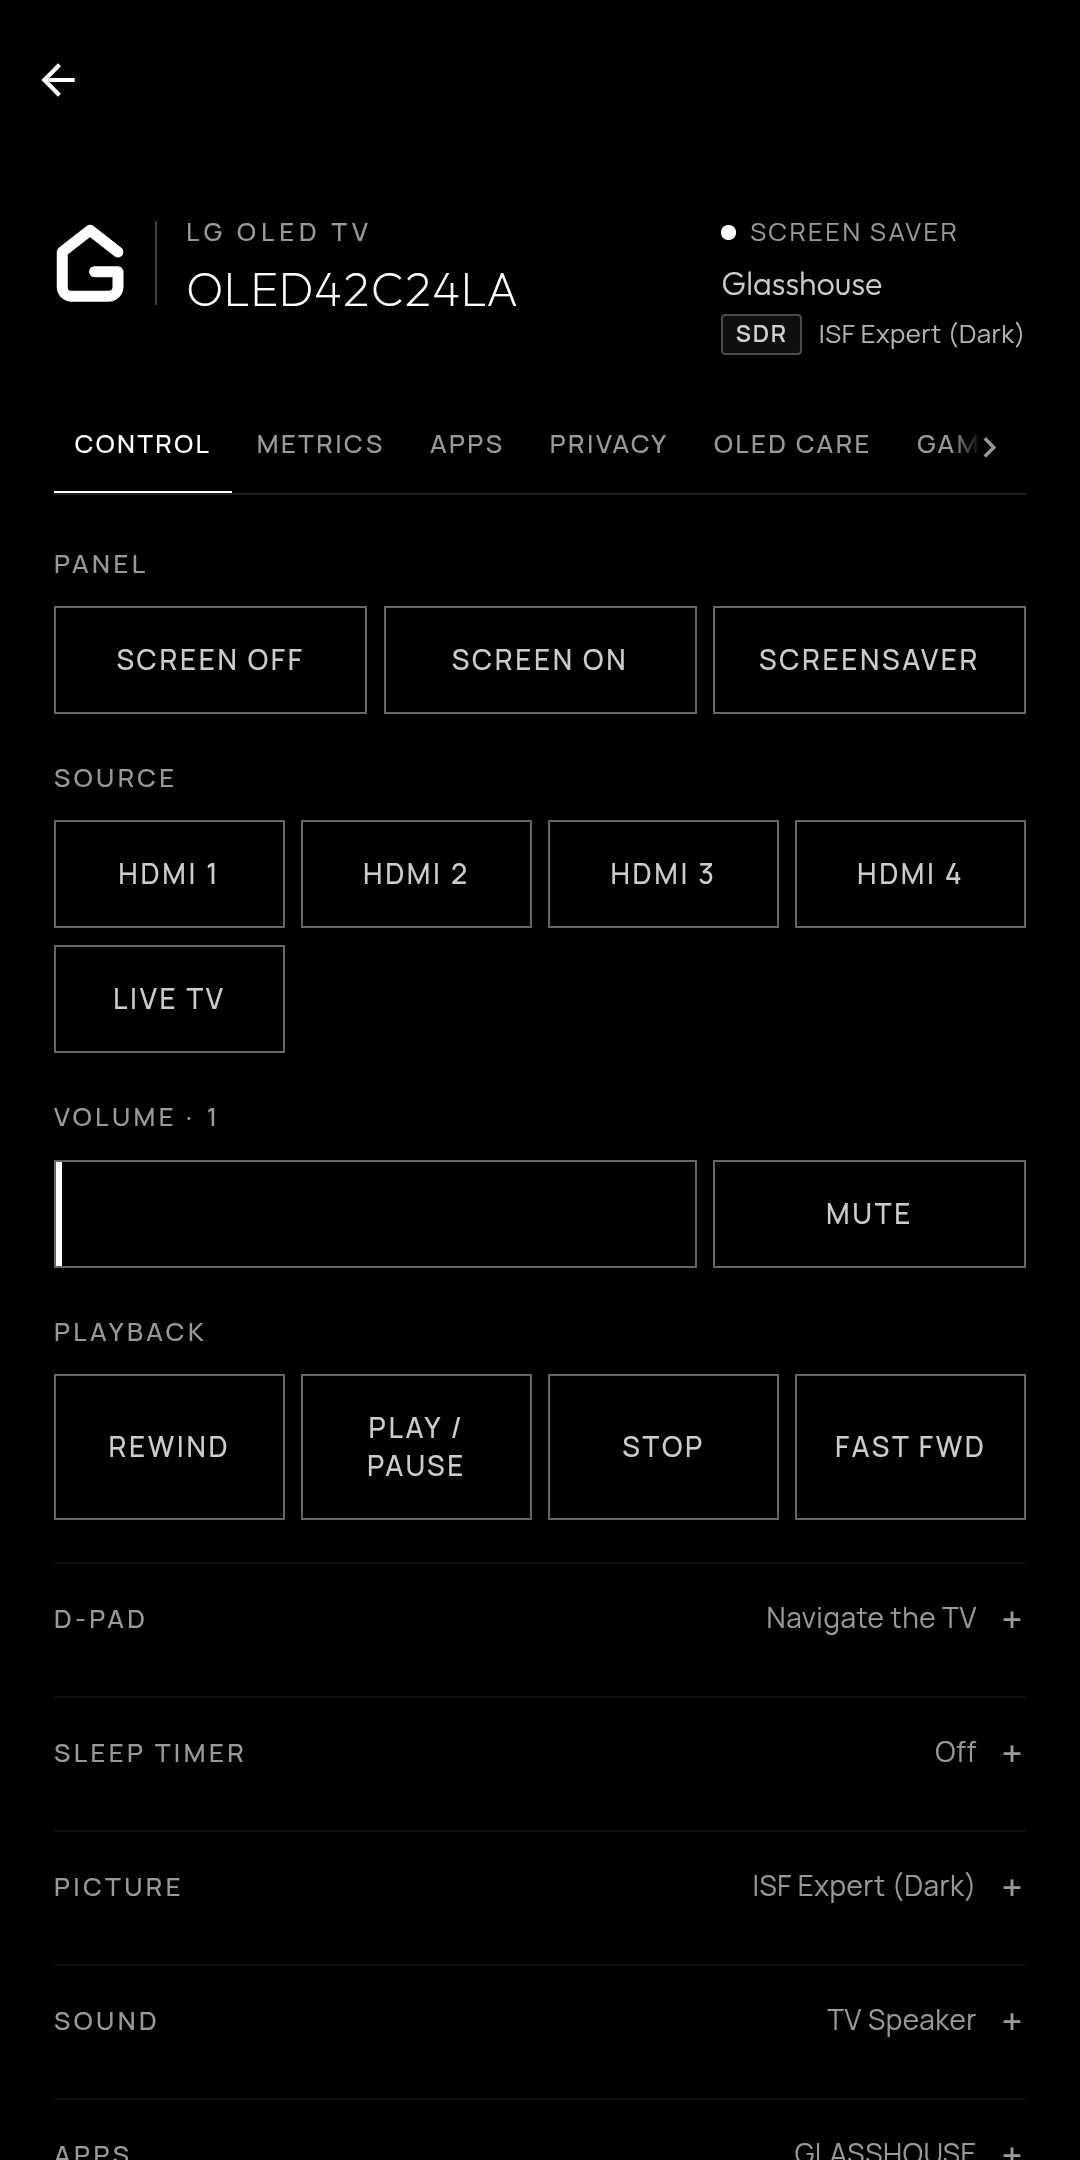
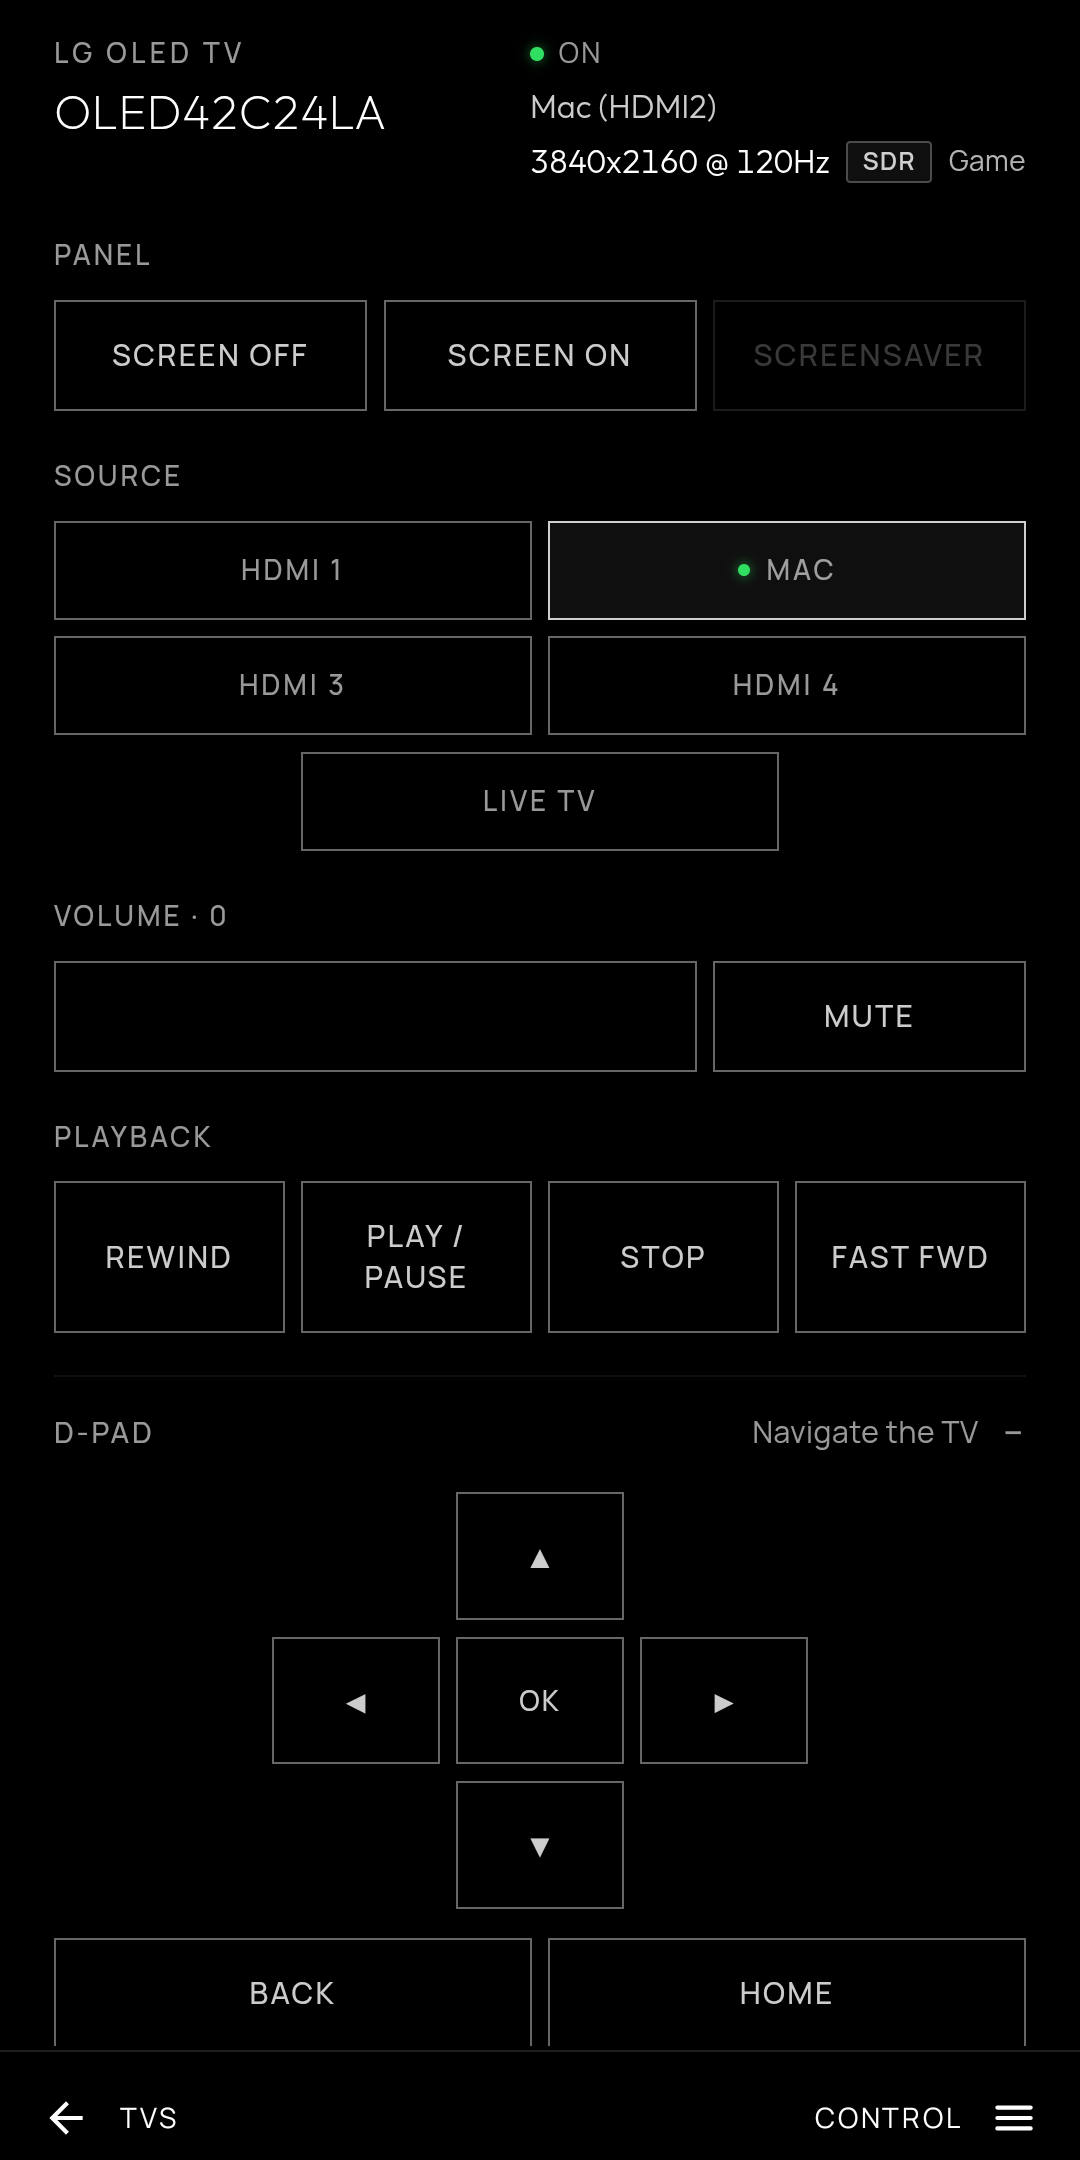
Show the app's bottom bar in the Android page's screenshots

diff --git a/docs/apps/android.md b/docs/apps/android.md
@@ -5,12 +5,12 @@
 The app runs on Android 10 and later, and follows the dashboard's design: monochrome styling, Manrope typography, and light/dark theme matching.
 
 <p align="center" markdown>
-  ![The TV list showing online and offline TVs](../screenshots/android-tvs.png){ width="300" }
+  ![The TV list, with power, volume and Open dashboard on each TV](../screenshots/android-tvs.png){ width="300" }
   &nbsp;&nbsp;&nbsp;&nbsp;
-  ![Full screen TV dashboard on phone](../screenshots/android-dashboard.png){ width="300" }
+  ![A TV's dashboard, with TVs and the section menu along the bottom](../screenshots/android-dashboard.png){ width="300" }
 </p>
 
-*The TV list showing online status, and a TV's dashboard opened full screen.*
+*The TV list, with power and volume on each TV, and a TV's dashboard with the app's back button and section menu along the bottom.*
 
 ## How to get the app
 
